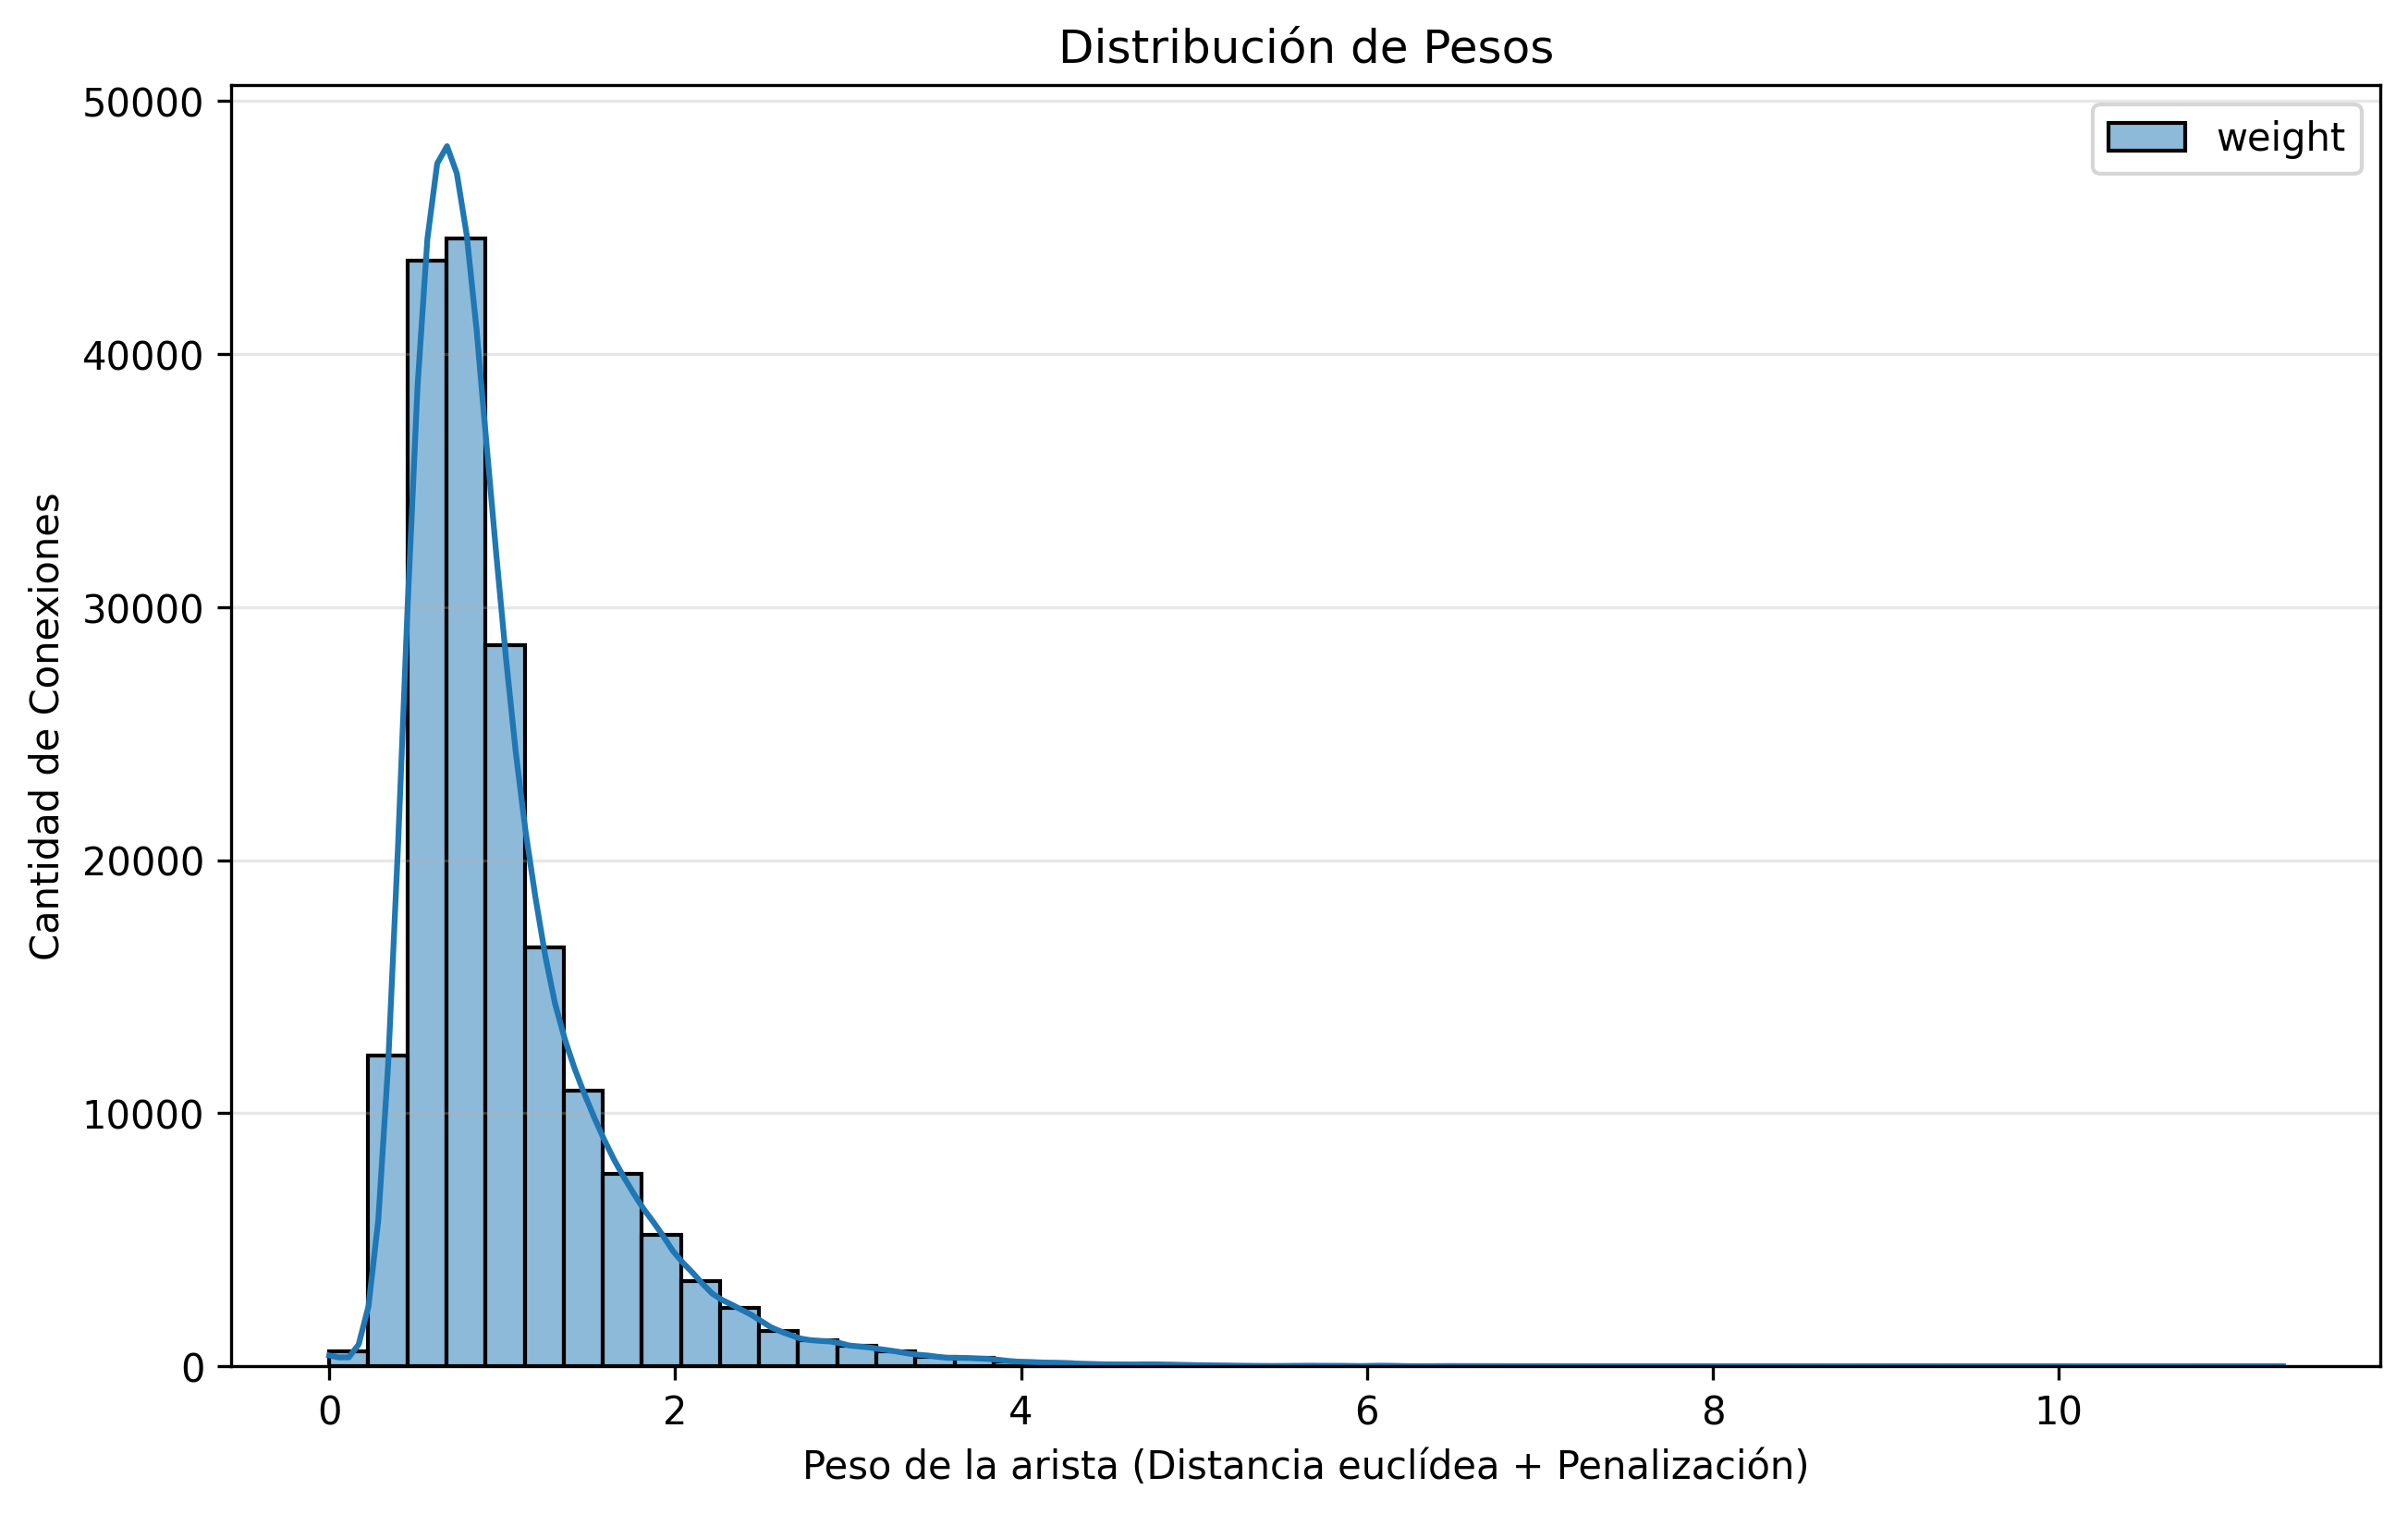
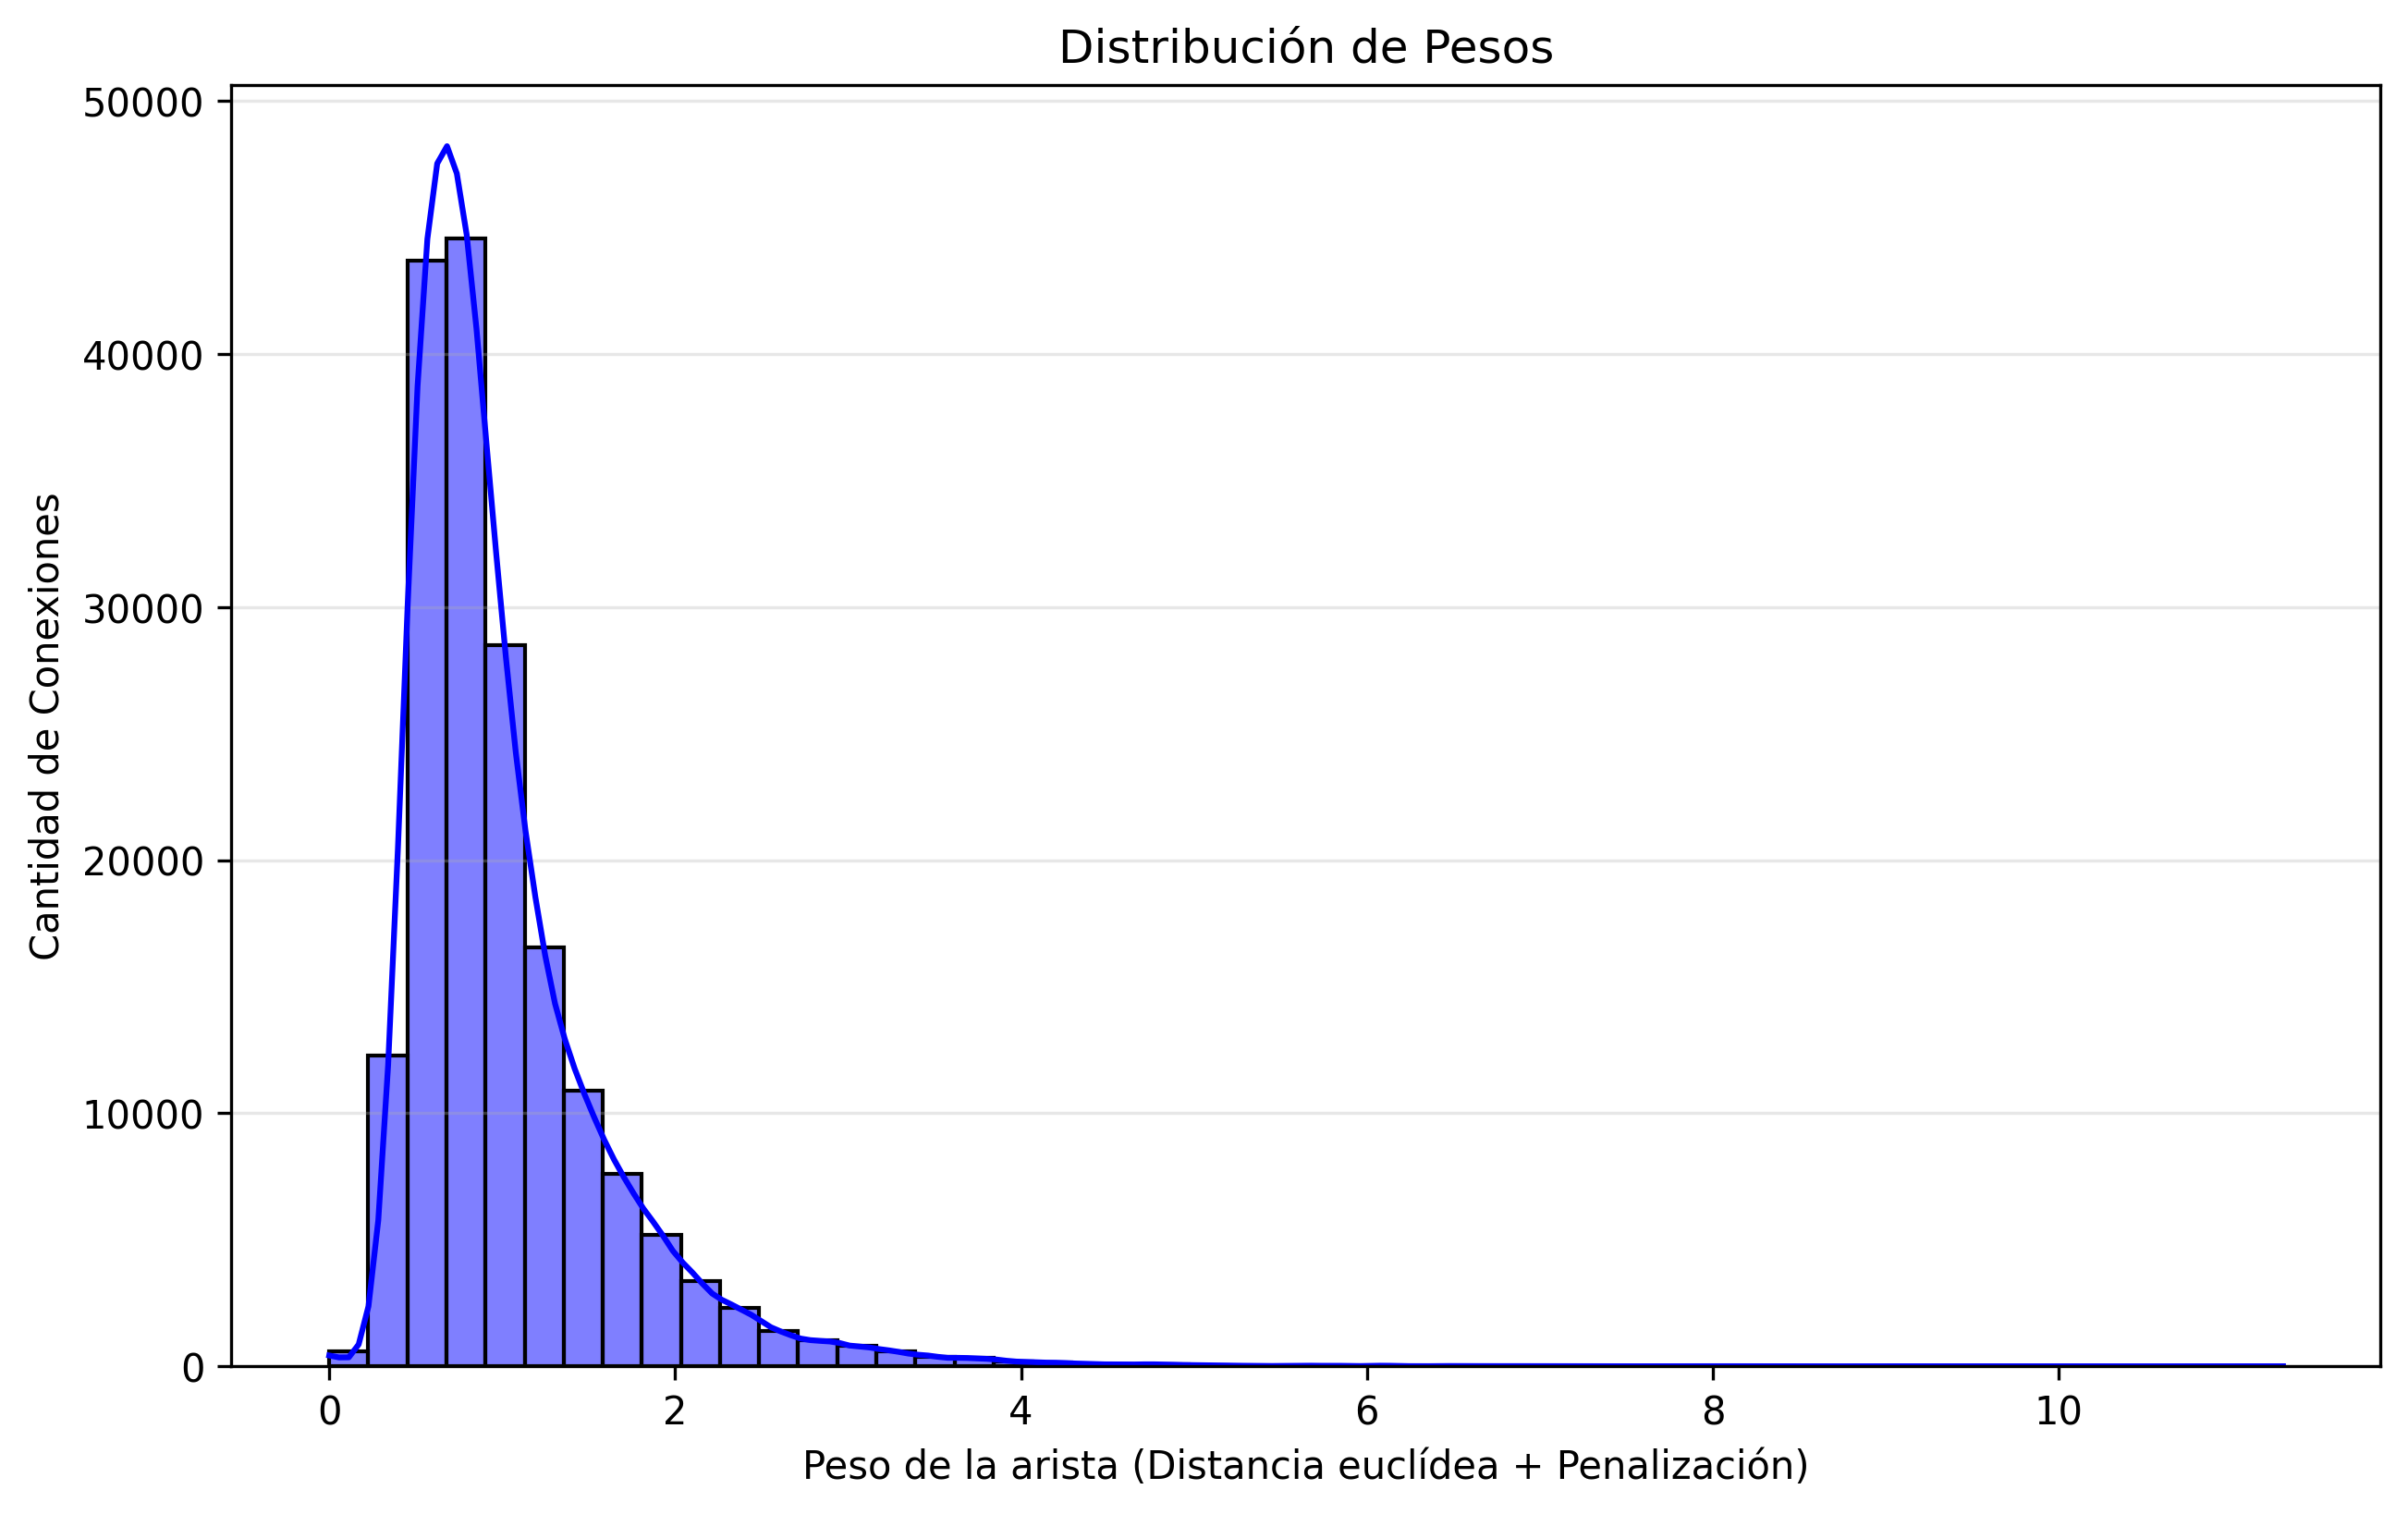
c

Changed region(s): [[0.1244, 0.1557, 0.4353, 0.9029], [0.8706, 0.0623, 0.995, 0.1245]]

diff --git a/Crear_grafo_con_generos_2/analisis_grafo.py b/Crear_grafo_con_generos_2/analisis_grafo.py
@@ -36,7 +36,7 @@ print(f"Conexiones de rescate (Penalización x10): {len(pesos_rescate)}")
 #3. Histograma con los pesos
 plt.figure(figsize=(10, 6))
 
-sns.histplot(df_edges, bins=50, kde=True, color = 'blue') 
+sns.histplot(df_edges['weight'], bins=50, kde=True, color = 'blue')
 plt.title('Distribución de Pesos')
 plt.xlabel('Peso de la arista (Distancia euclídea + Penalización)')
 plt.ylabel('Cantidad de Conexiones')